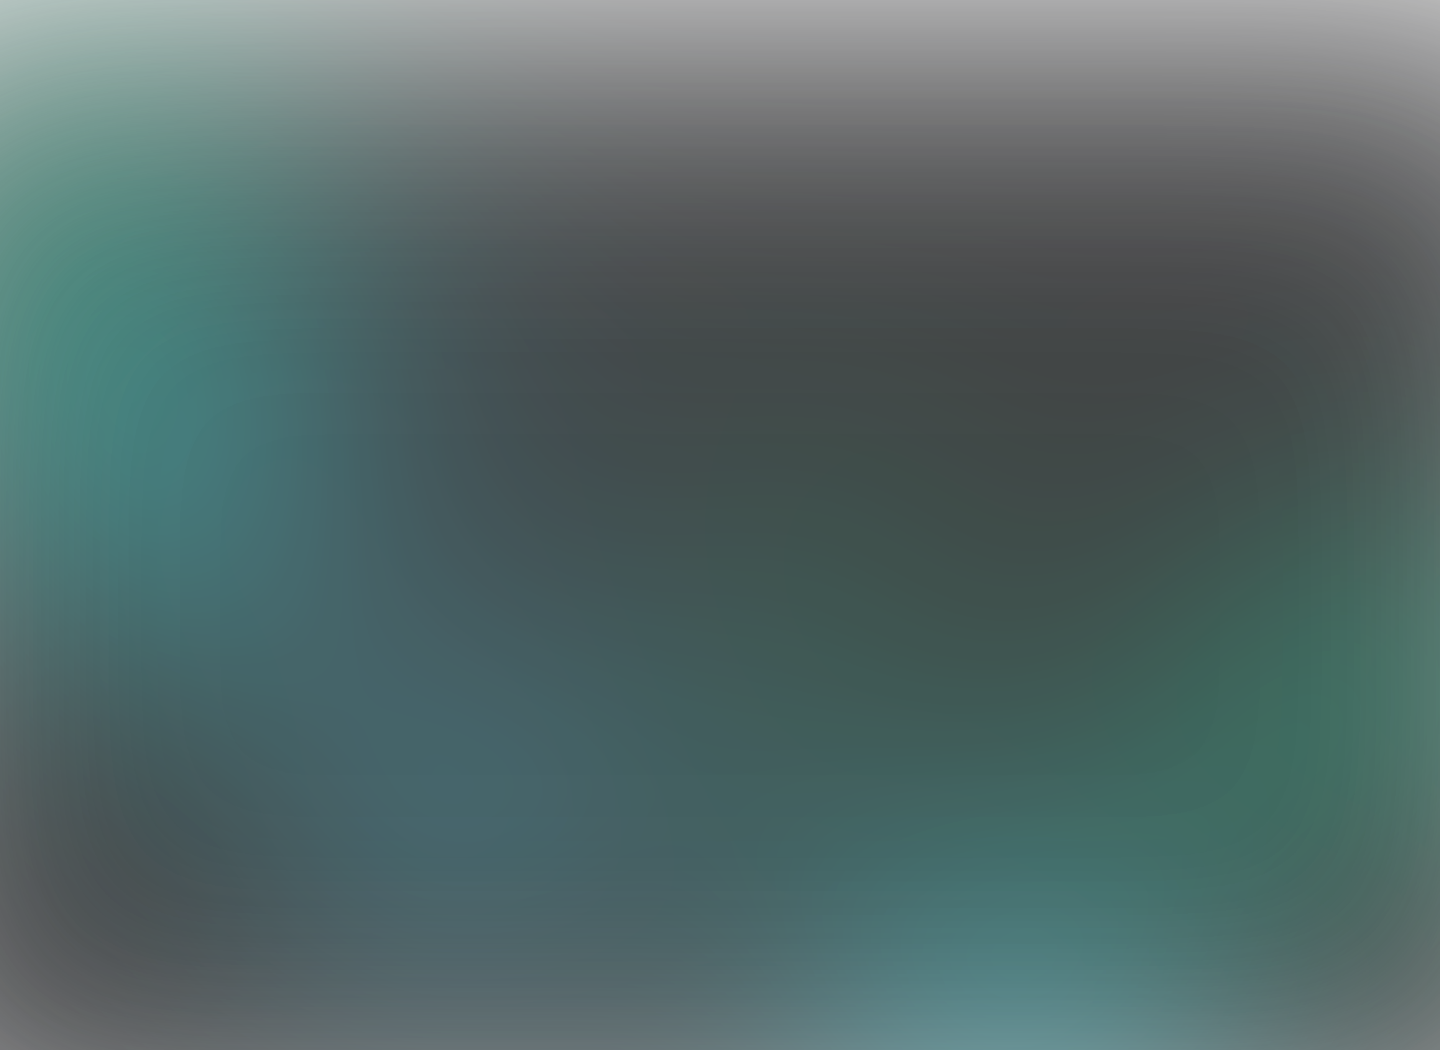
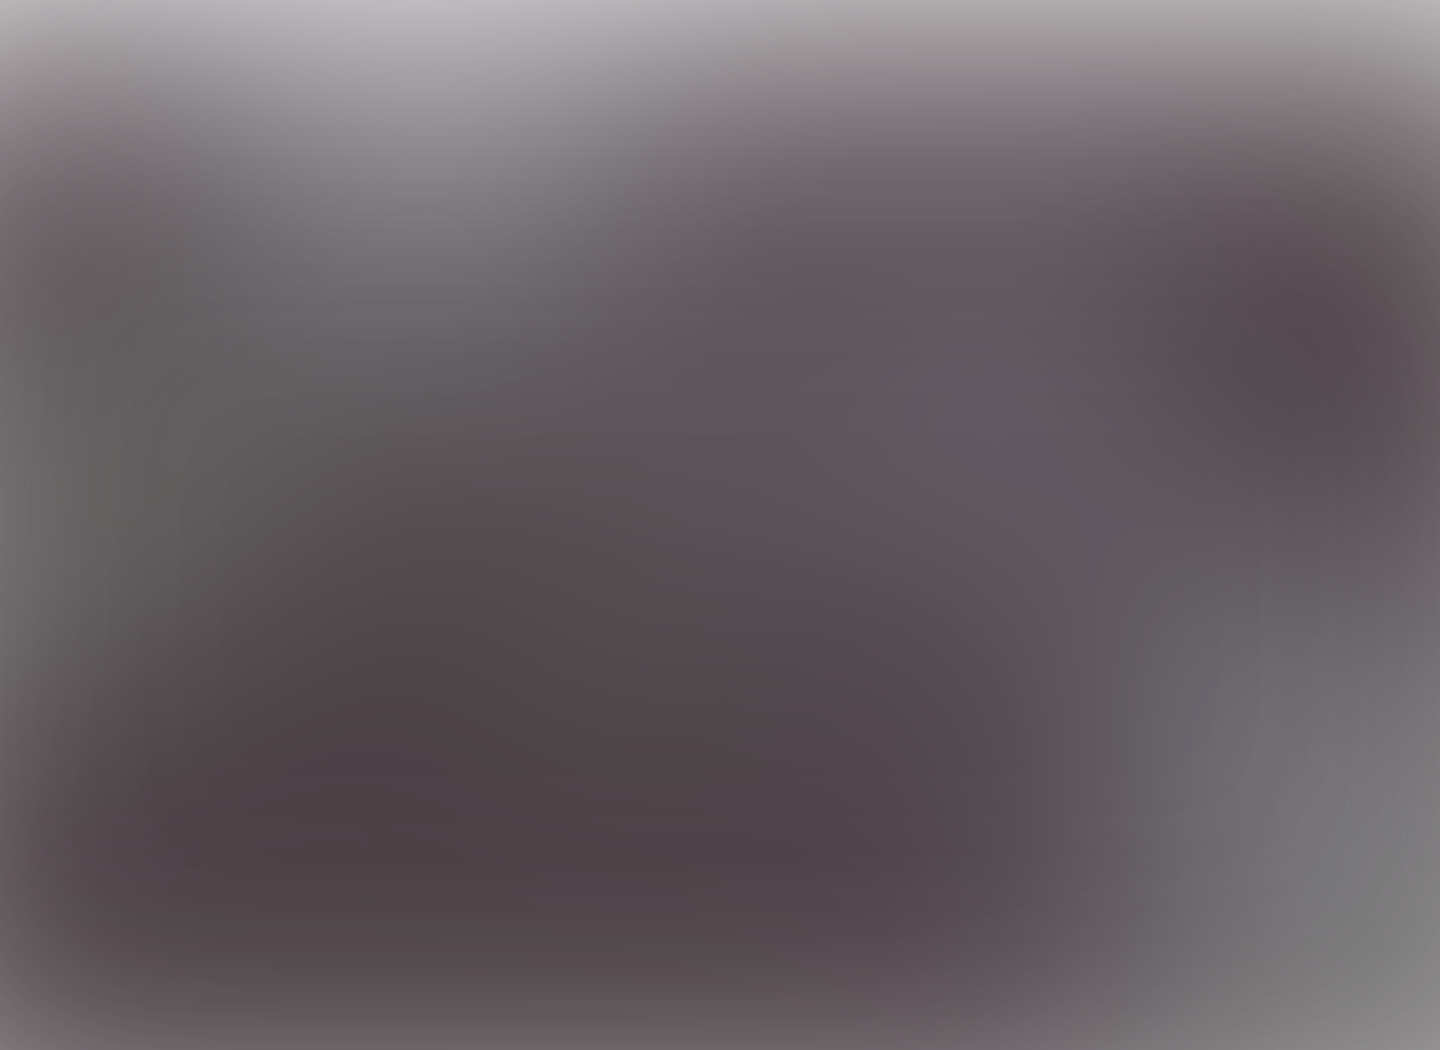
change theme

diff --git a/src/components/Logo.tsx b/src/components/Logo.tsx
@@ -15,7 +15,7 @@ export function Logo() {
         fill="#C4C4CC"
         d="M164.51 17.501h-2.283v4.53h-2.048v-11.78h4.143c1.36 0 2.408.306 3.149.915.74.61 1.108 1.493 1.108 2.648 0 .787-.19 1.449-.57 1.98-.38.532-.911.94-1.59 1.226l2.646 4.906v.106h-2.194l-2.364-4.531h.003zm-2.283-1.65h2.105c.691 0 1.229-.176 1.619-.524.39-.348.582-.824.582-1.429 0-.604-.18-1.12-.538-1.466-.358-.345-.893-.523-1.606-.533h-2.162V15.85zM179.066 16.773h-4.839v3.625h5.656v1.634h-7.704V10.25h7.648v1.65h-5.6v3.253h4.839v1.62zM189.803 19.29h-4.565l-.955 2.744h-2.127l4.452-11.783h1.836l4.459 11.783h-2.137l-.963-2.744zm-3.99-1.65h3.415l-1.707-4.89-1.708 4.89zM204.716 18.197c-.119 1.256-.583 2.238-1.392 2.941-.81.703-1.885 1.056-3.228 1.056-.938 0-1.764-.222-2.48-.668-.715-.445-1.266-1.079-1.656-1.898-.387-.82-.589-1.772-.607-2.858v-1.1c0-1.11.198-2.09.59-2.937.392-.846.96-1.5 1.695-1.96.736-.458 1.587-.688 2.554-.688 1.301 0 2.347.353 3.139 1.057.792.703 1.254 1.7 1.385 2.99h-2.039c-.096-.846-.343-1.458-.74-1.833-.397-.375-.977-.563-1.745-.563-.89 0-1.574.326-2.05.977-.479.652-.721 1.605-.733 2.863v1.044c0 1.273.227 2.245.683 2.917.457.668 1.123 1.004 2.004 1.004.805 0 1.409-.18 1.814-.543.405-.363.661-.962.77-1.804h2.038l-.002.003zM216.481 11.902h-3.674v10.132h-2.031V11.902h-3.642V10.25h9.347v1.65zM222.759 10.251h2.039v8.262c0 1.127-.353 2.023-1.057 2.687-.703.664-1.633.995-2.788.995-1.229 0-2.179-.311-2.848-.93-.669-.62-1.004-1.484-1.004-2.59h2.038c0 .627.156 1.096.467 1.412.31.316.76.474 1.347.474.55 0 .989-.183 1.315-.545.326-.366.489-.867.489-1.51V10.25h.002zM234.952 18.999c0-.518-.183-.918-.545-1.197-.363-.279-1.022-.563-1.972-.849-.95-.286-1.705-.604-2.265-.955-1.074-.674-1.612-1.555-1.612-2.638 0-.95.388-1.732 1.163-2.347.774-.614 1.779-.922 3.015-.922.819 0 1.55.15 2.194.454a3.597 3.597 0 011.513 1.29c.367.558.55 1.177.55 1.858h-2.038c0-.614-.193-1.095-.578-1.443-.385-.348-.938-.524-1.656-.524-.668 0-1.189.144-1.557.43-.37.286-.555.686-.555 1.197 0 .432.2.792.6 1.08.399.29 1.056.57 1.974.842.918.271 1.653.582 2.208.93.556.348.963.748 1.222 1.197.259.452.387.977.387 1.582 0 .982-.375 1.762-1.127 2.342-.753.58-1.775.87-3.063.87a5.755 5.755 0 01-2.352-.473c-.715-.316-1.27-.75-1.668-1.308-.397-.555-.594-1.204-.594-1.942h2.048c0 .669.222 1.187.664 1.555.441.367 1.075.55 1.902.55.713 0 1.246-.143 1.607-.432.357-.288.538-.671.538-1.145l-.003-.002z"
       ></path>
-      <path fill="#00B37E" d="M150.271 33.146h-4.958V.57h4.958v32.576z"></path>
+      <path fill="#C65D7B" d="M150.271 33.146h-4.958V.57h4.958v32.576z"></path>
     </svg>
   );
 }

diff --git a/src/components/Video.tsx b/src/components/Video.tsx
@@ -57,7 +57,7 @@ export function Video(props : VideoProps){
                         </div>)}
                     </div>
                     <div className="flex flex-col gap-4">
-                        <a href="" className="p-4 text-sm bg-green-500 flex items-center rounded font-bold gap-2 uppercase justify-center hover:bg-green-700 transition-colors">
+                        <a href="" className="p-4 text-sm bg-pink-500 border border-pink-500 flex items-center rounded font-bold gap-2 uppercase justify-center hover:bg-pink-700 hover:border-pink-700  transition-colors">
                             <DiscordLogo size={24} />
                             Comunidade do Discord
                         </a>
@@ -70,7 +70,7 @@ export function Video(props : VideoProps){
 
                 <div className="gap-8 mt-20 grid md:grid-cols-2">
                     <a href="" className="bg-gray-700 rounded overflow-hidden flex items-stretch gap-4 md:gap-6 hover:bg-gray-600 transition-colors">
-                        <div className="bg-green-700 h-full p-6 flex items-center">
+                        <div className="bg-pink-700 h-full p-6 flex items-center">
                             <FileArrowDown size={40} />
                         </div>
                         <div className="py-6 leading-relaxed">
@@ -84,7 +84,7 @@ export function Video(props : VideoProps){
                         </div>
                     </a>
                     <a href="" className="bg-gray-700 rounded overflow-hidden flex items-stretch gap-4 md:gap-6 hover:bg-gray-600 transition-colors">
-                        <div className="bg-green-700 h-full p-6 flex items-center">
+                        <div className="bg-pink-700 h-full p-6 flex items-center">
                             <ImageSquare size={40} />
                         </div>
                         <div className="py-6 leading-relaxed">

diff --git a/src/components/Lesson.tsx b/src/components/Lesson.tsx
@@ -42,7 +42,7 @@ export function Lesson(props: LessonProps){
                 {availableDateFormatted}
             </span>
             <div className={classNames('rounded border p-4 mt-2 relative',{
-                'bg-green-500 border-green-500 group-hover:border-green-500': isActiveLesson,
+                'bg-pink-500 border-pink-500 group-hover:border-pink-500': isActiveLesson,
                 'border-gray-500' : !isActiveLesson
 
             })}>
@@ -68,7 +68,7 @@ export function Lesson(props: LessonProps){
 
                     <span className={classNames("text-xs rounded px-2 py-[0.125rem] text-white border font-bold",{
                         'border-white' : isActiveLesson,
-                        'border-green-300' : !isActiveLesson,
+                        'border-pink-300' : !isActiveLesson,
                     })}>
                        {props.type === 'live' ? 'AO VIVO' : 'AULA PRÁTICA'}
                     </span>

diff --git a/src/pages/Subscribe.tsx b/src/pages/Subscribe.tsx
@@ -59,7 +59,7 @@ export function Subscriber(){
                             <button 
                                 type="submit"
                                 disabled={loading} 
-                                className="mt-4 bg-green-500 uppercase py-4 rounded font-bold text-sm hover:bg-green-700 transition-colors disabled:opacity-50">
+                                className="mt-4 bg-pink-500 uppercase py-4 rounded font-bold text-sm hover:bg-pink-700 transition-colors disabled:opacity-50">
                                     Garantir minha vaga
                             </button>
                         </form>

diff --git a/src/components/Loading.tsx b/src/components/Loading.tsx
@@ -4,7 +4,7 @@ export function Loading() {
             <div className="text-center flex flex-col items-center text-gray-300">
                 <svg 
                     role="status" 
-                    className="inline w-8 h-8 mr-2 text-gray-200 animate-spin dark:text-gray-600 fill-green-500"
+                    className="inline w-8 h-8 mr-2 text-gray-200 animate-spin dark:text-gray-600 fill-pink-500"
                     viewBox="0 0 100 101" 
                     fill="none" 
                     xmlns="http://www.w3.org/2000/svg"

diff --git a/src/components/Footer.tsx b/src/components/Footer.tsx
@@ -7,7 +7,7 @@ export function Footer(){
                 Desenvolvido por Ashley Nascimento
             </span>
 
-            <a className="text-gray-300 flex gap-2 leading-tight hover:text-green-500" href="https://github.com/ashley-nascimento">
+            <a className="text-gray-300 flex gap-2 leading-tight hover:text-pink-500" href="https://github.com/ashley-nascimento">
                 <GithubLogo size="18" />
                 GitHub
             </a>

diff --git a/index.html b/index.html
@@ -8,6 +8,7 @@
     <link href="https://fonts.googleapis.com/css2?family=Roboto:wght@400;500;700&display=swap" rel="stylesheet"/>
     <meta name="viewport" content="width=device-width, initial-scale=1.0" />
     <title>Event Platform</title>
+    <link rel="shortcut icon" href="src/assets/favicon.png">
   </head>
   <body>
     <div id="root"></div>

diff --git a/tailwind.config.js b/tailwind.config.js
@@ -17,6 +17,11 @@ module.exports = {
           500: '#00875F',
           700: '#015F43',
         },
+        pink:{
+          300: '#D3839A',
+          500: '#C65D7B',
+          700: '#874356'
+        },
         blue: {
           500: '#81D8F7',
         },
